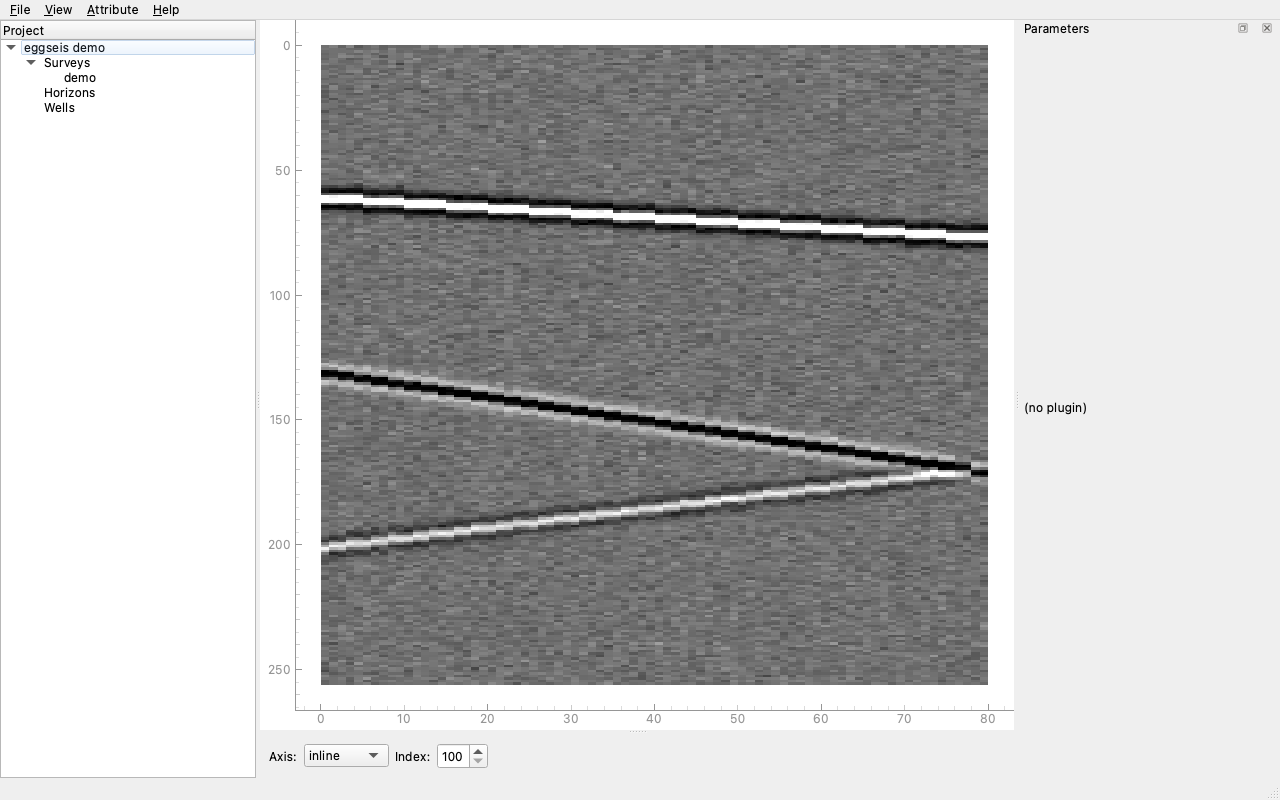
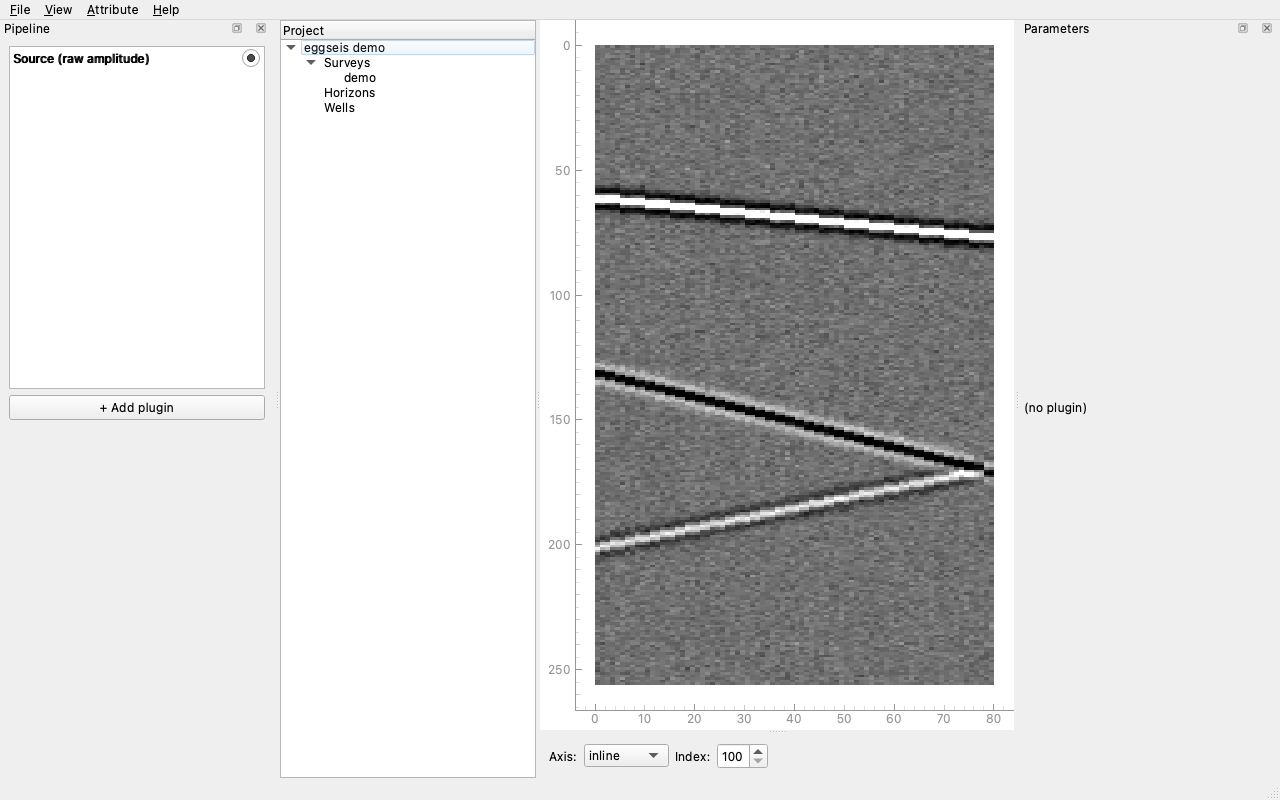
feat(app): wire PipelineDock + PipelineExecutor; per-survey pipeline registry

diff --git a/src/eggseis/app.py b/src/eggseis/app.py
@@ -20,6 +20,8 @@ from eggseis.backends.mdio import MDIOBackend
 from eggseis.colormaps import LUTS_AVAILABLE
 from eggseis.compute.orchestrator import JobOrchestrator
 from eggseis.data import SeismicVolume
+from eggseis.pipeline import Pipeline, PipelineExecutor
+from eggseis.pipeline.dock import PipelineDock
 from eggseis.plugin import PluginSpec
 from eggseis.plugin_loader import discover_all, load_errors
 from eggseis.plugin_template import create_template, open_in_editor
@@ -71,6 +73,21 @@ class MainWindow(QMainWindow):
         self._compute.tilesReady.connect(self._on_tiles_ready)
         self._compute.sectionReady.connect(self._on_section_ready)
         self._compute.failed.connect(self._on_compute_failed)
+
+        self._executor = PipelineExecutor(self._compute)
+        self._executor.tapReady.connect(self._on_tap_ready)
+        self._executor.failed.connect(self._on_chain_failed)
+
+        self._pipelines: dict[str, Pipeline] = {}
+        self._active_survey_id: str | None = None
+        self._pipeline_dock = PipelineDock(
+            param_widget_factory=self._make_param_widget
+        )
+        self._pipeline_dock.pipelineChanged.connect(self._request_tap)
+        self._pipeline_dock.tapChanged.connect(lambda _id: self._request_tap())
+        self._pipeline_dock.add_button.clicked.connect(self._on_add_plugin_clicked)
+        self.addDockWidget(Qt.LeftDockWidgetArea, self._pipeline_dock)
+
         self._build_menus()
         self._wire_signals()
         self._build_shortcuts()
@@ -238,8 +255,16 @@ class MainWindow(QMainWindow):
 
     def open_survey(self, survey_path: Path) -> None:
         volume = SeismicVolume(MDIOBackend(survey_path), name=survey_path.stem)
+        survey_id = str(survey_path.resolve())
+        self._active_survey_id = survey_id
+        self._pipelines.setdefault(survey_id, Pipeline())
         self.section_viewer.set_volume(volume)
         self.slice_nav.set_geometry(volume.geometry)
+        self._pipeline_dock.bind(self._pipelines[survey_id])
+        # Only drive the executor when the pipeline has nodes; an empty
+        # pipeline means "show raw", which the section viewer already does.
+        if self._pipelines[survey_id].nodes:
+            self._request_tap()
 
     def set_colormap(self, name: str) -> None:
         self.section_viewer.set_colormap(name)
@@ -299,3 +324,51 @@ class MainWindow(QMainWindow):
             f"&Compute Errors… ({len(self._compute_errors)})"
         )
         self.statusBar().showMessage(f"{name} failed: {message}", 5000)
+
+    def _make_param_widget(self, _node):
+        # M5: per-node ParamDock integration with magicgui across multiple
+        # node instances is a known polish item. The dock falls back to its
+        # empty panel — node params use the model's defaults until M6 wires
+        # the per-node editor.
+        return None
+
+    def _on_add_plugin_clicked(self) -> None:
+        specs = sorted(discover_all(), key=lambda s: s.name)
+        if not specs:
+            return
+        names = [s.name for s in specs]
+        choice, ok = QInputDialog.getItem(
+            self, "Add plugin", "Plugin:", names, 0, False
+        )
+        if not ok:
+            return
+        spec = next(s for s in specs if s.name == choice)
+        self._pipeline_dock.add_plugin(spec)
+
+    def _request_tap(self) -> None:
+        volume = self.section_viewer.volume
+        if volume is None or self._active_survey_id is None:
+            return
+        pipeline = self._pipelines[self._active_survey_id]
+        if not pipeline.nodes:
+            # Empty chain — section viewer already paints raw. Skip the
+            # executor to avoid stamping a redundant raw overlay (which
+            # would set has_overlay=True even though no plugin is active).
+            self.section_viewer.clear_overlay()
+            return
+        self._executor.request_tap(
+            pipeline,
+            volume,
+            self.section_viewer.current_axis,
+            self.section_viewer.current_index,
+        )
+
+    def _on_tap_ready(self, _job_id: int, arr) -> None:
+        self.section_viewer.set_overlay(arr, partial=False)
+
+    def _on_chain_failed(self, _job_id: int, message: str) -> None:
+        self._compute_errors.append(("chain", message))
+        self._compute_errors_action.setText(
+            f"&Compute Errors… ({len(self._compute_errors)})"
+        )
+        self.statusBar().showMessage(f"Pipeline failed: {message}", 5000)
